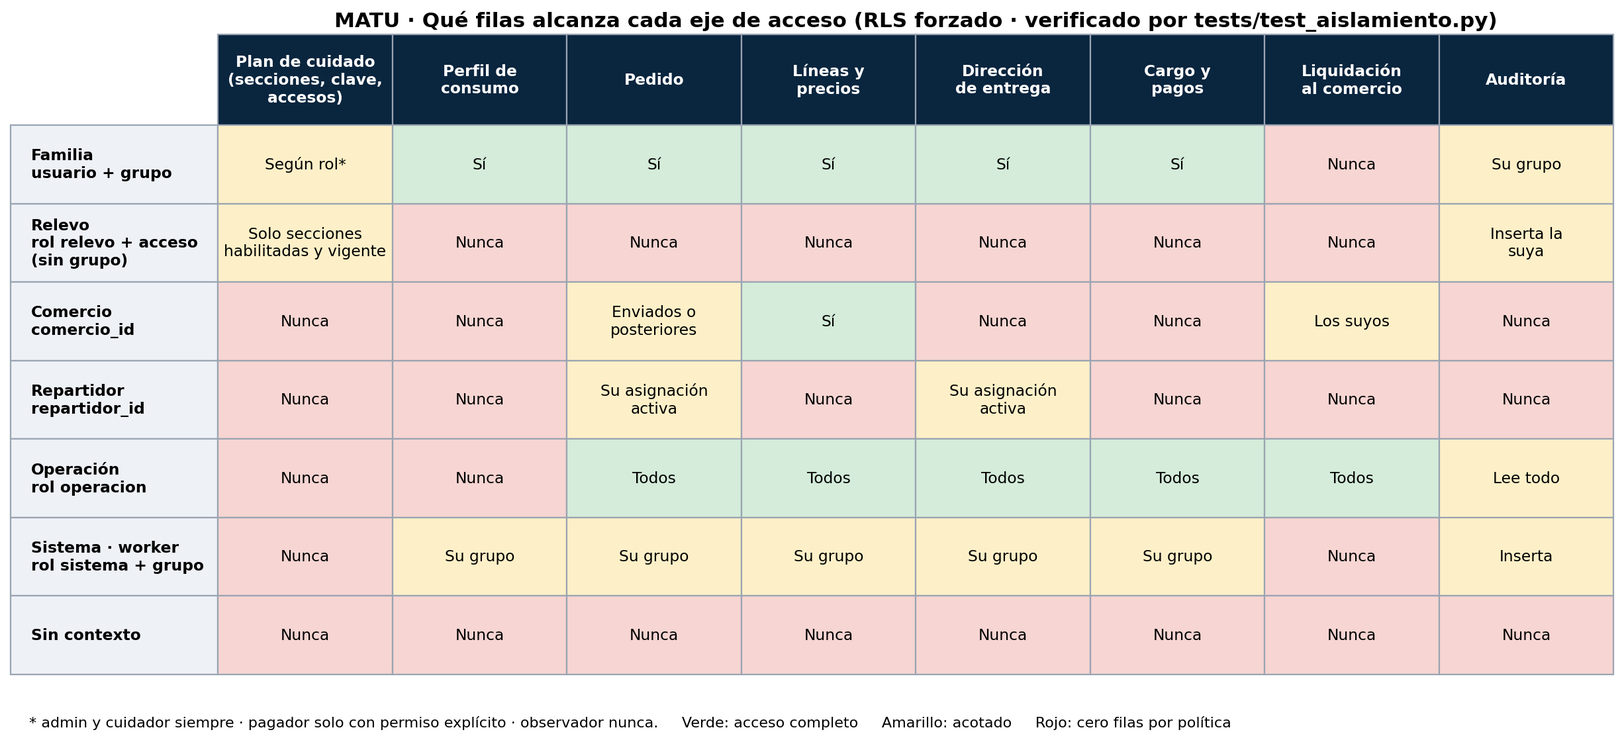
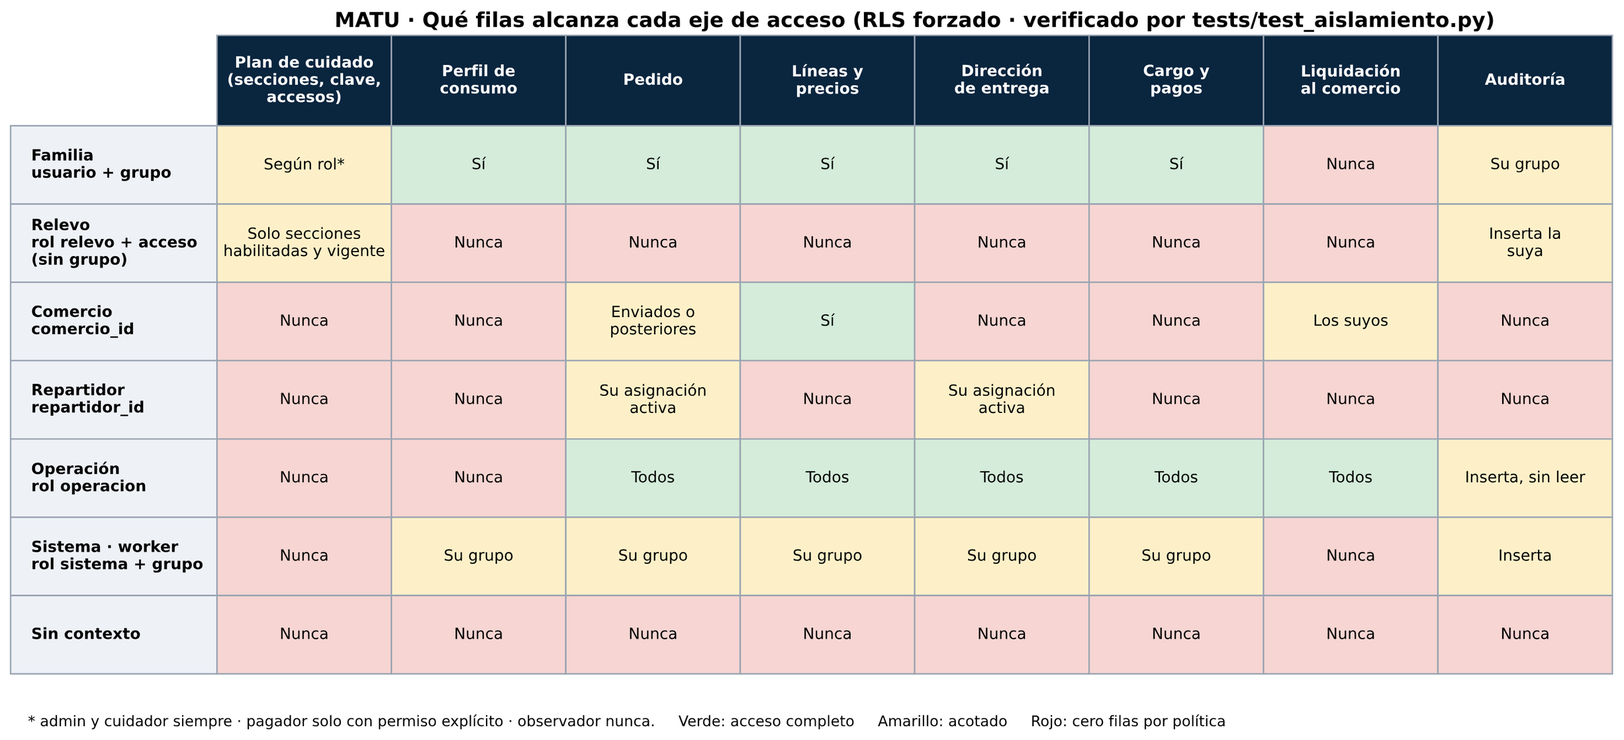
MATU-100: correcciones de la revisión de cierre (operación inserta sin leer la auditoría, fila auditoria sin ip, Create Date de las migraciones, imagen de la matriz, ADR-029 y P3)
Claude-Session: https://claude.ai/code/session_01VmxGRVgx4s4nZVYdsQLG5n

diff --git a/docs/arquitectura.md b/docs/arquitectura.md
@@ -624,7 +624,7 @@ Es aritmética de tercero básico, y esa es exactamente la gracia. **El valor no
 | Entidad | Campos relevantes | Notas |
 |---|---|---|
 | `consentimiento` | id, grupo_id, usuario_id, persona_cuidada_id, **calidad_otorgante** (`titular`, `representante_legal`, `cuidador_de_hecho`), finalidad, version_politica, evidencia, otorgado_en, revocado_en, revocacion_motivo | Requisito directo de la Ley 21.719. **`calidad_otorgante` es la pieza clave**: el titular de los datos es muchas veces una persona sin capacidad para consentir, y quien opera la aplicación puede no ser su representante legal. Ver la sección 11.5. **Es inalterable** desde la migración 0006: no se actualiza ni se borra, y solo se registra la revocación, una vez. Desde la 0016 la revocación lleva su motivo (`retiro` o `renovacion`) y solo la registran admin o cuidador (MATU-44) |
-| `auditoria` | id, grupo_id, actor_tipo, **actor_ref**, accion, entidad, entidad_id, **motivo**, ip (no se llena), request_id, ocurrido_en | Append-only, con una prueba comprometida que lo verifique. **`actor_ref` es polimórfico** porque el relevo no es usuario y es justamente el actor más sensible del sistema. **La IP no se guarda** (decisión 27 del contrato de MATU-09, 27-10). La columna `ip` viene de la migración 0001 y queda siempre vacía. **Quién lee la auditoría** lo fija la migración 0005 (decisión 36): el administrador lee todas las filas de su grupo, cada miembro solo las suyas, y operación no tiene lectura amplia. La 0010 agrega que quien puede ver el plan lee las aperturas de los relevos (RF-08). [PENDIENTE: ninguna migración hasta la 0017 elimina la columna `ip`.] |
+| `auditoria` | id, grupo_id, persona_cuidada_id, actor_tipo, **actor_ref**, accion, entidad, entidad_id, **motivo**, request_id, ocurrido_en | Append-only, con una prueba comprometida que lo verifique. **`actor_ref` es polimórfico** porque el relevo no es usuario y es justamente el actor más sensible del sistema. **La IP no se guarda** (decisión 27 del contrato de MATU-09, 27-10): la 0025 borró la columna `ip`. **Quién lee la auditoría:** la 0005 (decisión 36) deja que el administrador lea todas las filas de su grupo y cada miembro solo las suyas, la 0010 agrega que quien puede ver el plan lee las aperturas de los relevos (RF-08), y la 0025 (`auditoria_cuenta_propia`) deja que cada persona lea las acciones de su cuenta. **Operación inserta y no lee** (`modelo-datos.md`, matriz 5.3, nota ⁷). La 0028 agrega `persona_cuidada_id`. |
 | `evento_outbox` | id, grupo_id, tipo, **payload solo con identificadores**, agregado_id, disponible_en, intentos, publicado_en, fallido_en | Tabla de **infraestructura sin RLS**, acotada por permiso de rol. Contrato completo en 8.6 |
 | `idempotencia` | clave, **grupo_id**, endpoint, usuario_id, hash_peticion, estado_http, respuesta, creada_en | Soporta el header `Idempotency-Key`. **Lleva `grupo_id` y RLS como cualquier tabla de negocio**: guarda cuerpos de respuesta de pedidos y pagos, de modo que sin tenant sería una excepción no declarada al modelo de aislamiento (sección 12.8) |
 | `evento_consumido` | evento_id, consumidor, consumido_en | Clave primaria compuesta. Es lo que hace idempotente al consumidor |
@@ -796,11 +796,11 @@ El esquema solo cambia con migraciones de Alembic revisables y reversibles. **De
 | 0029 | `vista_comercio` | MATU-63 | 13 de noviembre | La vista del comercio por funciones, el código de retiro por parte, el despacho y el retracto |
 | 0030 | `backoffice_operacion` | MATU-81 | 17 de noviembre | `incidencia` con tipos nuevos y sin DELETE, el segundo factor de operación (`iam_mfa_secreto`, `sesion_refresh.mfa_en` y el alta por consola), la separación de las cuentas de operación, `retracto.motivo_rechazo`, el catálogo de los comercios ficticios, y operación sin leer la persona, el consentimiento ni las aceptaciones de la política (11.6) |
 | 0031 | `operacion_sin_cuentas` | MATU-114 | 18 de noviembre | Quita `usuario_operacion_leer`, `membresia_operacion` e `invitacion_operacion`, y agrega `operacion_cuenta_activa`, `cuenta_es_operacion` y `operacion_solicitante_retracto`. La app deja de leer `codigo_hash`, con `codigo_vigente` generada, `clave_notas_familia_leer` queda solo para admin y cuidador, y entra la acción de auditoría `operacion.retracto_correo_fallido` |
-| 0032 | `pagos_propios` | MATU-116 | 19 de noviembre | Quien pagó un pedido sigue viendo sus pagos y puede arrepentirse de esa compra, aunque pase a «Se informa» o salga del grupo |
-| 0033 | `operacion_lee_lo_que_usa` | MATU-122 | 19 de noviembre | Operación lee solo lo que usa |
-| 0034 | `politicas_contacto` | MATU-79 | 19 de noviembre | El contacto de cada cuenta y del relevo, solo para quien lo usa (permisos por columna), y `notificacion_sistema` separada por operación |
+| 0032 | `pagos_propios` | MATU-116 | 18 de noviembre | Quien pagó un pedido sigue viendo sus pagos y puede arrepentirse de esa compra, aunque pase a «Se informa» o salga del grupo |
+| 0033 | `operacion_lee_lo_que_usa` | MATU-122 | 18 de noviembre | Operación lee solo lo que usa |
+| 0034 | `politicas_contacto` | MATU-79 | 18 de noviembre | El contacto de cada cuenta y del relevo, solo para quien lo usa (permisos por columna), y `notificacion_sistema` pasa a leer, crear y editar, sin DELETE |
 | 0035 | `conservacion_con_su_marcador` | MATU-124 | 19 de noviembre | Cada tarea de conservación ve y borra solo con su propio marcador, y la dirección queda solo para la familia (`direccion_solo_familia`) |
-| 0036 | `lo_que_paso_quien_pago` | MATU-128 | 20 de noviembre | Quien pagó un pedido ve «Lo que pasó con tu pedido» en ese pedido (`pedido_lo_que_paso`) |
+| 0036 | `lo_que_paso_quien_pago` | MATU-128 | 19 de noviembre | Quien pagó un pedido ve «Lo que pasó con tu pedido» en ese pedido (`pedido_lo_que_paso`) |
 
 **Los diagramas del modelo de datos siguen en la 0001** para las tablas que cambiaron después. Se regeneran con `backend/db/gen_diagramas.py` contra una base con todas las migraciones (modelo de datos, sección 0).
 
@@ -1087,33 +1087,6 @@ sequenceDiagram
 | Fechas | ISO 8601 con zona. El servidor opera en UTC, la aplicación muestra en America/Santiago |
 | Versionado | La v1 no rompe contratos. Un cambio incompatible crea `/api/v2` |
 
-### Rutas de la cuenta (iam)
-
-Rutas de la cuenta de cada persona, sin `X-Grupo-Id` (MATU-38, 41, 54, 55, 57, 75 y 81). La fuente es `docs/api/openapi.json` del repositorio MATU_PROYECTO.
-
-```
-POST   /v1/usuarios                        → crear la cuenta, con la aceptación de la política
-POST   /v1/sesiones                        → entrar (una cuenta de operación recibe 401 mfa-requerido)
-POST   /v1/sesiones/mfa                    → el segundo factor de operación (MATU-81)
-POST   /v1/sesiones/renovar                → renovar la sesión (refresh rotativo)
-POST   /v1/sesiones/cerrar                 → salir
-GET    /v1/dispositivos                    → «Dónde entraste»: los teléfonos y computadores con sesión
-DELETE /v1/dispositivos/{dispositivo_id}   → cerrar en ese teléfono
-GET    /v1/dispositivos/actual/push        → si este teléfono tiene los avisos activados, y la clave pública
-PUT    /v1/dispositivos/actual/push        → activar los avisos en este teléfono
-DELETE /v1/dispositivos/actual/push        → desactivarlos
-POST   /v1/recuperacion/codigo             → pedir un código para recuperar la cuenta
-POST   /v1/recuperacion/contrasena         → cambiar la contraseña con el código
-GET    /v1/cuenta                          → «Tu cuenta»
-POST   /v1/cuenta/celular/codigo           → pedir el código del celular
-POST   /v1/cuenta/celular/verificar        → confirmar el celular
-GET    /v1/yo/avisos                       → preferencias de aviso
-PUT    /v1/yo/avisos                       → guardar las preferencias (se audita sin los valores)
-GET    /v1/yo/ingresos                     → los últimos ingresos (90 días, hasta 20 líneas)
-GET    /v1/yo/datos                        → «Tus datos»: la copia de lo que MATU guarda de la cuenta
-GET    /v1/politica                        → la política vigente y su versión
-```
-
 ### 9.2 Capa 1 · Plan de cuidado
 
 ```
@@ -1284,6 +1257,32 @@ GET    /v1/backoffice/indicadores
 **La lista no lleva el nombre de la persona cuidada, nada de la ficha ni acciones** (ADR-031). La v1.1 traía el nombre de la persona y una acción `compartir_enlace`, que salieron. La cantidad sugerida cubre 30 días y va en envases enteros cuando la familia anotó las unidades por envase. **La lista funciona sin ningún comercio en convenio**: es la decisión 2 de cabecera hecha contrato de API. El texto que sale del teléfono tampoco lleva los días que quedan, para que sea más difícil deducir el consumo diario.
 
 ---
+
+### 9.7 Rutas de la cuenta
+
+Rutas de la cuenta de cada persona, sin `X-Grupo-Id`, de los módulos `iam` y `notifications` (las de aviso) (MATU-38, 41, 54, 55, 57, 75 y 81). La fuente es `docs/api/openapi.json` del repositorio MATU_PROYECTO.
+
+```
+POST   /v1/usuarios                        → crear la cuenta, con la aceptación de la política
+POST   /v1/sesiones                        → entrar (una cuenta de operación sigue con el segundo factor, ver 9.5)
+POST   /v1/sesiones/renovar                → renovar la sesión (refresh rotativo)
+POST   /v1/sesiones/cerrar                 → salir
+GET    /v1/dispositivos                    → «Dónde entraste»: los teléfonos y computadores con sesión
+DELETE /v1/dispositivos/{dispositivo_id}   → cerrar en ese teléfono
+GET    /v1/dispositivos/actual/push        → si este teléfono tiene los avisos activados, y la clave pública
+PUT    /v1/dispositivos/actual/push        → activar los avisos en este teléfono
+DELETE /v1/dispositivos/actual/push        → desactivarlos
+POST   /v1/recuperacion/codigo             → pedir un código para recuperar la cuenta
+POST   /v1/recuperacion/contrasena         → cambiar la contraseña con el código
+GET    /v1/cuenta                          → «Tu cuenta»
+POST   /v1/cuenta/celular/codigo           → pedir el código del celular
+POST   /v1/cuenta/celular/verificar        → confirmar el celular
+GET    /v1/yo/avisos                       → preferencias de aviso (notifications)
+PUT    /v1/yo/avisos                       → guardar las preferencias (notifications) (se audita sin los valores)
+GET    /v1/yo/ingresos                     → los últimos ingresos (90 días, hasta 20 líneas)
+GET    /v1/yo/datos                        → «Tus datos»: la copia de lo que MATU guarda de la cuenta
+GET    /v1/politica                        → la política vigente y su versión
+```
 
 ## 10. Diseño de interacción y accesibilidad
 

diff --git a/docs/legal/revision-previa-matu-54.md b/docs/legal/revision-previa-matu-54.md
@@ -31,7 +31,7 @@ Además, donde dice «la 0024 de MATU-55», es la 0025. El texto original se dej
 | P1 | **Quién pide la copia de la persona, y con qué base** | Para admin y cuidador, **CUMPLE** con condiciones. Que actúen en nombre de la persona **REQUIERE CONSULTA LEGAL** (CL-04 ampliada y CL-61). La propia persona con cuenta: hoy **NO CUMPLE** en la app, porque el modelo no la vincula con una cuenta. Por ahora lo pide por correo (CL-30 ampliada) | La Ley 19.628, art. 12, da a la titular el derecho a saber qué datos hay sobre ella, de dónde vienen, para qué se guardan y a quién se comunican. La Ley 21.719 mantiene el acceso y agrega la portabilidad, pero el analista no cita su artículo. **C1:** pueden pedirla admin y cuidador, los mismos que retiran y borran (MATU-44 y MATU-72). Pagador, observador, otro grupo y persona borrada reciben 404. **C2:** no importa quién dio la autorización, igual que en el retiro. **C3:** con la autorización retirada o en pausa se puede pedir igual, pero sin el texto de la ficha ni lo anotado de los insumos (D-54-5) |
 | P2 | **Qué incluye y qué no** | **CUMPLE** con condiciones (D-54-4). Llevar datos de terceros en la copia de la titular **REQUIERE CONSULTA LEGAL** (CL-61) | Ver la sección 3. **C4:** nunca el teléfono del relevo, ni el correo o el celular de otros miembros, ni `usuario_id` o cualquier otro id interno, ni `ip`, `request_id`, hashes de token o PIN, `evidencia` en bruto, `referencia_documento`, `push_token` ni la clave. **C5:** respuesta con `extra="forbid"` y una prueba que falle si aparece cualquiera de esos campos. **C6:** columnas nombradas, sin `SELECT *` |
 | P3 | **Formato, ADR-029, servidor o cliente, archivo en el teléfono** | **CUMPLE** con condiciones (D-54-3). Si el JSON basta como formato portable **REQUIERE CONSULTA LEGAL** (CL-63) | **C7:** lo legible es la pantalla, que muestra «Esta pantalla no se imprime.» en la impresión, igual que el resto de la app. No hay PDF, ni HTML, ni estilo de impresión. **C8:** lo estructurado es un archivo JSON, que arma el servidor en un solo GET y en una transacción de lectura coherente. El cliente lo guarda tal como llegó, desde la memoria (Blob, `URL.createObjectURL` y `revokeObjectURL` de inmediato). **C9:** el archivo se llama `matu-datos-AAAA-MM-DD.json`, sin el nombre de la persona, porque queda en la lista de descargas. **C10:** el JSON empieza con un `aviso` fijo: es una copia para ejercer derechos y no la ficha para un relevo. **C11:** aviso en pantalla antes de descargar: el archivo queda en el teléfono, fuera de MATU, no vence y MATU no lo borra |
-| P4 | **Qué se muestra de la auditoría de la ficha, de la cuenta y de los avisos** | Hoy **NO CUMPLE**: la cuenta no se puede leer (P2-2) y la ficha no se puede asociar a la persona (hallazgo). Con la 0024, la 0028 y las condiciones, **CUMPLE** | **C12:** de la ficha, quién (nombre), qué (texto de `lenguaje.md`) y cuándo, y el tipo de sección si es adicional. Nunca el texto. **C13:** cada rol ve lo que hoy le deja ver RLS (0005 y 0010): el admin ve todo, el cuidador ve lo suyo y las aperturas del relevo (D-54-6). **C14:** quien salió del grupo aparece según la D-42-10. **C15:** la cuenta se ve solo en «Tus datos», con la 0024. **C16:** los avisos enviados van en la copia de cada cuenta (`notificacion_propia` ya existe), con la fecha, el canal y si salió. Nunca el texto ni el destino. **C17:** en el piloto un aviso simulado queda como `enviada`, y la pantalla no puede decir que salió (D-54-11) |
+| P4 | **Qué se muestra de la auditoría de la ficha, de la cuenta y de los avisos** | Hoy **NO CUMPLE**: la cuenta no se puede leer (P2-2) y la ficha no se puede asociar a la persona (hallazgo). Con la 0025, la 0028 y las condiciones, **CUMPLE** | **C12:** de la ficha, quién (nombre), qué (texto de `lenguaje.md`) y cuándo, y el tipo de sección si es adicional. Nunca el texto. **C13:** cada rol ve lo que hoy le deja ver RLS (0005 y 0010): el admin ve todo, el cuidador ve lo suyo y las aperturas del relevo (D-54-6). **C14:** quien salió del grupo aparece según la D-42-10. **C15:** la cuenta se ve solo en «Tus datos», con la 0024. **C16:** los avisos enviados van en la copia de cada cuenta (`notificacion_propia` ya existe), con la fecha, el canal y si salió. Nunca el texto ni el destino. **C17:** en el piloto un aviso simulado queda como `enviada`, y la pantalla no puede decir que salió (D-54-11) |
 | P5 | **Registro de cada descarga** | **CUMPLE** con condiciones. **No hace falta un `CHECK` nuevo** | **C18:** `persona.datos_descargar` (con grupo, entidad `persona_cuidada`) y `cuenta.datos_descargar` (sin grupo, en `ACCIONES_DE_CUENTA`), sin detalle. **C19:** una fila por cada GET que entrega datos, en la misma transacción. Si la inserción falla, no se entregan los datos. **C20:** no se registra si el archivo se guardó, porque el navegador no lo confirma (mismo criterio que MATU-60). **C21:** la fila de la persona aparece en «Quién abrió o editó la ficha» como «Pidió una copia de los datos». No se agrega un `plan.leer` aparte |
 | P6 | **Límites: frecuencia, tamaño y plazo** | **CUMPLE** con condiciones. El plazo legal y si un límite es compatible con la gratuidad **REQUIEREN CONSULTA LEGAL** (CL-48 ampliada y CL-63) | **C22:** gratis y sin pasos extra. **C23:** 10 copias por hora por cuenta, con un contador por huella HMAC en Redis que dura 1 hora, y un 429 con texto. **C24:** la pantalla muestra 90 días de historial con «Ver más», y el archivo trae todo lo guardado (D-54-9). **C25:** la app entrega en el momento, y el correo sigue con su plazo (acuse en 2 días hábiles y respuesta en 30 días corridos) para lo que la app no da |
 | P7 | **Política, registro y `lenguaje.md`** | **NO CUMPLE** hasta que se publique | §9 contradice la copia. §13 la lista como pendiente. §6 (línea 220) promete que la auditoría de la ficha se puede consultar, y hoy no hay pantalla. `lenguaje.md` 29 manda a pedir la copia por correo. El registro, entrada 5, dice «la API no expone las compras». Ver la sección 6 |
@@ -42,11 +42,11 @@ Además, donde dice «la 0024 de MATU-55», es la 0025. El texto original se dej
 
 **Por qué:** la copia tiene que decir quién abrió o editó la ficha de **esa** persona, también después de quitar una sección o de destruir la clave. Hoy eso no se puede, porque las filas apuntan a ids que se borran (hallazgo de la sección 0).
 
-**Qué no depende de la 0028:** la acción nueva (texto sin `CHECK`), la lectura de la cuenta (0024 de MATU-55), las compras (`reposicion_leer`, 0011), los avisos propios (`notificacion_propia`) y la aceptación (`aceptacion_propia_leer`, 0021).
+**Qué no depende de la 0028:** la acción nueva (texto sin `CHECK`), la lectura de la cuenta (0025 de MATU-55), las compras (`reposicion_leer`, 0011), los avisos propios (`notificacion_propia`) y la aceptación (`aceptacion_propia_leer`, 0021).
 
 **Con la 0023 a la 0027 no hay choque:** no toca `auditoria_detalle_acotado` (0026) ni `acceso_relevo` (0027).
 
-> **Nota (MATU-100, 13-11):** este borrador quedó reemplazado por la 0028 fusionada. Las diferencias son tres: la acción nueva sí lleva `CHECK` (`auditoria_cuenta_acotada` pasa a 15 acciones); la referencia es una FK compuesta `(persona_cuidada_id, grupo_id)` con `persona_cuidada_id_grupo_uq`, y se agrega `auditoria_persona_obligatoria` (NOT VALID); y el índice es `(persona_cuidada_id, ocurrido_en DESC, id DESC)`. La fuente es la migración y `docs/modelo-datos.md`.
+> **Nota (MATU-100, 13-11 y 20-11):** este borrador quedó reemplazado por la 0028 fusionada. Hay cuatro diferencias. La acción nueva sí lleva `CHECK`, y `auditoria_cuenta_acotada` pasa a 15 acciones. La referencia es una FK compuesta `(persona_cuidada_id, grupo_id)` con `persona_cuidada_id_grupo_uq`, y se agrega `auditoria_persona_obligatoria` (NOT VALID). El índice es `(persona_cuidada_id, ocurrido_en DESC, id DESC)`. Y `clave.destruir` también lleva su persona. La fuente es la migración y `docs/modelo-datos.md`. La migración de la cuenta (MATU-55) es la 0025, no la 0024.
 
 **Borrador** (con D-54-7 (a). La forma la decide el backend):
 
@@ -77,7 +77,7 @@ ALTER TABLE auditoria DROP COLUMN persona_cuidada_id;
 - Hay que verificar que el `INSERT` de `matu_app` sobre `auditoria` cubra la columna nueva, si el permiso es por columna.
 - **Código:** `EntradaAuditoria` suma `persona_cuidada_id` (opcional, exige grupo), y lo llenan las acciones de la ficha, del relevo, de las autorizaciones, de los insumos, de las alertas, de las compras, `persona.borrar` y `persona.datos_descargar`.
 - Una prueba comprueba que la persona de la fila es del mismo grupo. No se usa un trigger, porque el relevo no puede leer `persona_cuidada` con RLS.
-- **Coordinación con la 0024:** MATU-54 la necesita en `main`. Si se invierte el orden, la política `auditoria_cuenta_propia` va en la migración de MATU-54 y sale de la de MATU-55.
+- **Coordinación con la 0025:** MATU-54 la necesita en `main`. Si se invierte el orden, la política `auditoria_cuenta_propia` va en la migración de MATU-54 y sale de la de MATU-55.
 
 **Si Jorge elige D-54-7 (b):** no hay migración, y la limitación se declara en la política y en el registro.
 
@@ -182,7 +182,7 @@ Nunca la contraseña transformada, el secreto del doble factor, la huella del em
 - **Quién accede:**
   - a la copia de la persona, admin y cuidador. El cuidador ve solo sus filas de auditoría y las aperturas del relevo (0005 y 0010);
   - pagador, observador y otro grupo reciben 404;
-  - a «Tus datos», cada cuenta, con la 0024 de MATU-55;
+  - a «Tus datos», cada cuenta, con la 0025 de MATU-55;
   - operación nunca.
 - **Conservación:** la copia no se guarda en el servidor. El registro de cada descarga, 3 años, como la auditoría. El archivo que queda en el teléfono no lo alcanzan los plazos de MATU.
 - **Medidas:**
@@ -210,7 +210,7 @@ Las CL-61 a CL-63, las ampliaciones de la sección 9, «la próxima es CL-64» y
 
 ## 7. Textos propuestos para `lenguaje.md` (sección 34, «Copia de los datos (MATU-54)»; se publicó como la **35**, porque la 34 quedó para MATU-42)
 
-Sin «auditoría», «registro de accesos», «consentimiento», «sesión», «token», «usuario» ni «exportar». El número 34 sigue a las 31 a 33 de la fila.
+Sin «auditoría», «registro de accesos», «consentimiento», «sesión», «token», «usuario» ni «exportar». Se publicó como la sección 35 de `lenguaje.md`, porque la 34 quedó para MATU-42.
 
 | Dónde | Texto |
 |---|---|

diff --git a/docs/modelo-datos.md b/docs/modelo-datos.md
@@ -1066,7 +1066,7 @@ sequenceDiagram
 
 ### 5.3 Matriz de acceso
 
-Cada celda de esta matriz está respaldada por una prueba de `test_aislamiento.py`. Versión en imagen: `10-rls-matriz-de-acceso.png`.
+Cada celda de esta matriz está respaldada por una prueba de `test_aislamiento.py`. Versión en imagen: `10-rls-matriz-de-acceso.png` (la imagen y su SVG muestran la columna Auditoría de operación como «Inserta, sin leer» desde MATU-100; el resto de la imagen puede ir atrasado respecto de esta tabla, que es la que manda).
 
 | Eje | Plan de cuidado | Perfil de consumo | Pedido | Líneas y precios | Dirección de entrega | Cargo y pagos | Liquidación | Auditoría |
 |---|---|---|---|---|---|---|---|---|
@@ -1074,7 +1074,7 @@ Cada celda de esta matriz está respaldada por una prueba de `test_aislamiento.p
 | **Relevo** | Solo secciones habilitadas y vigente | Nunca | Nunca | Nunca | Nunca | Nunca | Nunca | Inserta la suya |
 | **Comercio** | Nunca | Nunca | Solo su parte, por funciones² | Solo las suyas, por funciones² | **Nunca** | Nunca | Solo lee `consumo_comercio`, los suyos | Inserta la suya, sin grupo⁵ |
 | **Repartidor** | Nunca | Nunca | Su asignación activa | **Nunca** | Su asignación activa | Nunca | Nunca | Nunca |
-| **Operación** | **Nunca** | **Nunca** | Todos | Todos | **Nunca**⁶ | Todos | Todos | **Nunca**⁷ |
+| **Operación** | **Nunca** | **Nunca** | Todos | Todos | **Nunca**⁶ | Todos | Todos | Inserta, sin leer⁷ |
 | **Sistema (worker)** | Nunca | Su grupo | Su grupo | Su grupo | **Nunca**⁶ | Su grupo | Nunca | Inserta |
 | **Sin contexto** | Nunca | Nunca | Nunca | Nunca | Nunca | Nunca | Nunca | Nunca |
 
@@ -1088,9 +1088,9 @@ Cada celda de esta matriz está respaldada por una prueba de `test_aislamiento.p
 
 ⁵ Desde la 0029 (MATU-63, D-63-12): la política restrictiva `auditoria_comercio_propia` exige que una sesión de comercio inserte solo filas con `actor_tipo = 'comercio'`, sin grupo ni persona, y `auditoria_cuenta_acotada` suma sus acciones. El comercio no lee la auditoría, y el encargado no ve su propio registro en la aplicación [PENDIENTE: CL-73].
 
-⁶ Desde la 0030 (MATU-81, D-81-2 y D-81-6): operación no lee `persona_cuidada` (sale `persona_operacion`) ni `aceptacion_politica` (sale `aceptacion_operacion_leer`). `pedido_entrega` queda solo de lectura (`entrega_operacion_leer`) y `direccion_operacion_leer` se mantiene, pero ninguna ruta de `/v1/operacion` lee la dirección, la entrega, el consentimiento, el plan ni el perfil de consumo, con una prueba que captura las sentencias de cada ruta (C34). `consentimiento_operacion` pasa a `consentimiento_conservacion`, `TO matu_owner`: el consentimiento lo leen solo `plan_destruir_claves` y `consumo_conservar`, que corren como `matu_owner` con `app.rol = 'operacion'`, y `matu_app` con operación lee cero filas (decisión 452). **Desde la 0033 (MATU-122, C2):** salen `entrega_operacion_leer` y `direccion_operacion_leer`, y la restrictiva `direccion_no_operacion` cierra la dirección también con el grupo del pedido en el contexto. Solo `pedido_conservar` ve la entrega, con su marcador, para borrarla. **Desde la 0035 (MATU-124):** cada función de conservación borra solo con su propio marcador (`app.funcion` con su nombre, junto con `app.rol = 'operacion'`), que fija ella misma al entrar y devuelve al valor anterior al salir. `app.conservacion` ya no existe. El de los pedidos es `app.funcion = 'pedido_conservar'`, que exigen también los triggers del registro contable y de la línea de tiempo, y con el que `pedido_conservar` lee la entrega, las participaciones y las claves de pago. Los pedidos, las partes, los cargos y las transacciones los sigue leyendo por las políticas de operación que no son `TO matu_owner` (`pedido_operacion_leer`, `pedido_comercio_operacion_leer`, `cargo_operacion_leer` y `transaccion_operacion_leer`, y las lecturas de líneas, reglas y línea de tiempo que siguen al pedido), igual que cualquier función que corra como operación [PENDIENTE: MATU-129]. `consentimiento_conservacion` lo acepta solo de `plan_destruir_claves` y `consumo_conservar`. `pago_resolver_venta` lee con su propio marcador, con el sistema y sin grupo. La restrictiva `direccion_solo_familia` (`TO matu_app`) reemplaza a `direccion_no_operacion`: la dirección la leen y la escriben solo las sesiones de familia, con una cuenta y sin rol de contexto. <!-- MATU-124: aprobado por el orquestador con el mandato de Jorge del 19-11 --> Tampoco la lee el sistema, aunque traiga el grupo (0035).
+⁶ Desde la 0030 (MATU-81, D-81-2 y D-81-6): operación no lee `persona_cuidada` (sale `persona_operacion`) ni `aceptacion_politica` (sale `aceptacion_operacion_leer`). `pedido_entrega` queda solo de lectura (`entrega_operacion_leer`) y `direccion_operacion_leer` se mantiene, pero ninguna ruta de `/v1/operacion` lee la dirección, la entrega, el consentimiento, el plan ni el perfil de consumo, con una prueba que captura las sentencias de cada ruta (C34). `consentimiento_operacion` pasa a `consentimiento_conservacion`, `TO matu_owner`: el consentimiento lo leen solo `plan_destruir_claves` y `consumo_conservar`, que corren como `matu_owner` con `app.rol = 'operacion'`, y `matu_app` con operación lee cero filas (decisión 452). **Desde la 0033 (MATU-122, C2):** salen `entrega_operacion_leer` y `direccion_operacion_leer`, y la restrictiva `direccion_no_operacion` cierra la dirección también con el grupo del pedido en el contexto. Solo `pedido_conservar` ve la entrega, con su marcador, para borrarla. **Desde la 0035 (MATU-124):** cada función de conservación borra solo con su propio marcador (`app.funcion` con su nombre, junto con `app.rol = 'operacion'`), que fija ella misma al entrar y devuelve al valor anterior al salir. `app.conservacion` ya no existe. El de los pedidos es `app.funcion = 'pedido_conservar'`, que exigen también los triggers del registro contable y de la línea de tiempo, y con el que `pedido_conservar` lee la entrega, las participaciones y las claves de pago. Los pedidos, las partes, los cargos y las transacciones los sigue leyendo por las políticas de operación que no son `TO matu_owner` (`pedido_operacion_leer`, `pedido_comercio_operacion_leer`, `cargo_operacion_leer` y `transaccion_operacion_leer`, y las lecturas de líneas, reglas y línea de tiempo que siguen al pedido), igual que cualquier función que corra como operación [PENDIENTE: MATU-129, lecturas y marcador infalsificable]. `consentimiento_conservacion` lo acepta solo de `plan_destruir_claves` y `consumo_conservar`. `pago_resolver_venta` lee con su propio marcador, con el sistema y sin grupo. La restrictiva `direccion_solo_familia` (`TO matu_app`) reemplaza a `direccion_no_operacion`: la dirección la leen y la escriben solo las sesiones de familia, con una cuenta y sin rol de contexto. Tampoco la lee el sistema, aunque traiga el grupo (0035), y el sistema no lee `pedido_entrega` desde la 0023 (`app_ve_entrega()` exige una cuenta). <!-- MATU-124: aprobado por el orquestador con el mandato de Jorge del 19-11 -->
 
-⁷ La 0005 (MATU-14) quitó `auditoria_operacion`: desde entonces operación no lee la auditoría. Las únicas políticas de lectura son `auditoria_familia` (0005), `auditoria_aperturas_relevo` (0010) y `auditoria_cuenta_propia` (0025). Corregido en MATU-100, 13-11.
+⁷ Operación **inserta** en la auditoría: `auditoria_insertar` admite `app_rol() = 'operacion'`, y la consola escribe sus acciones con `actor_tipo = 'operacion'` (por ejemplo `operacion.pedido_ver`). **No lee** la auditoría de la familia ni la de otras cuentas: la 0005 (MATU-14) quitó `auditoria_operacion`, y las únicas políticas de lectura son `auditoria_familia` (0005), `auditoria_aperturas_relevo` (0010) y `auditoria_cuenta_propia` (0025). Como `auditoria_familia` no mira el rol, una sesión de la consola, con su cuenta y el grupo del pedido, alcanza en la base solo las filas que escribió ella misma en ese grupo, y ninguna ruta las lee [PENDIENTE: MATU-129, lecturas y marcador infalsificable]. Corregido en MATU-100, 20-11.
 
 ### 5.4 Cinco hallazgos al escribir las políticas
 

diff --git a/docs/adr/ADR-029-ficha-no-se-imprime.md b/docs/adr/ADR-029-ficha-no-se-imprime.md
@@ -27,7 +27,7 @@ La revisión previa del analista normativo de MATU-52 (03-11) mostró el problem
 
 - **Se pierde el plan B sin internet del relevo.** Si se corta internet o el teléfono se queda sin batería, el relevo depende de lo que anotó o fotografió de la página del relevo. Es una consecuencia aceptada: la protección de la ficha pesa más. No se reabre este punto sin una decisión nueva.
 - MATU no puede impedir que el relevo o la familia impriman la página con el navegador o le saquen una captura. MATU no lo ofrece ni lo facilita: no hay botón, vista ni estilo de impresión para la ficha. El aviso que ve quien comparte (lenguaje.md, sección 9) ya dice que el relevo puede anotar o fotografiar.
-- **No es una excepción a los derechos del titular.** La copia de los datos, «Tus datos» y «Datos de» la persona (MATU-54, sprint 4), entrega a quien corresponde todo lo que MATU guarda de la persona, incluida la ficha, porque es el derecho de acceso y de portabilidad (Ley 21.719). Esa descarga no es una hoja para pegar ni para entregar a un relevo, y su formato lo revisa el analista en MATU-54.
+- **No es una excepción a los derechos del titular.** La copia de los datos de la persona, «Datos de» en Grupo familiar (MATU-54), entrega a quien administra o cuida lo que MATU guarda de ella, incluida la ficha mientras su autorización esté vigente, porque es el derecho de acceso y de portabilidad (Ley 21.719). «Tus datos» es la copia de cada cuenta y no trae nada de la persona cuidada. Esa descarga no es una hoja para pegar ni para entregar a un relevo, y su formato lo revisa el analista en MATU-54.
 - No hay ruta `GET …/plan/exportar` ni acción de auditoría `plan.imprimir`.
 
 **En la arquitectura:** RF-09 con el texto nuevo, sin la ruta de exportación de la ficha, y sin «versión imprimible» en el alcance ni en el calendario. Se consolida en la v1.2 (MATU-43).
